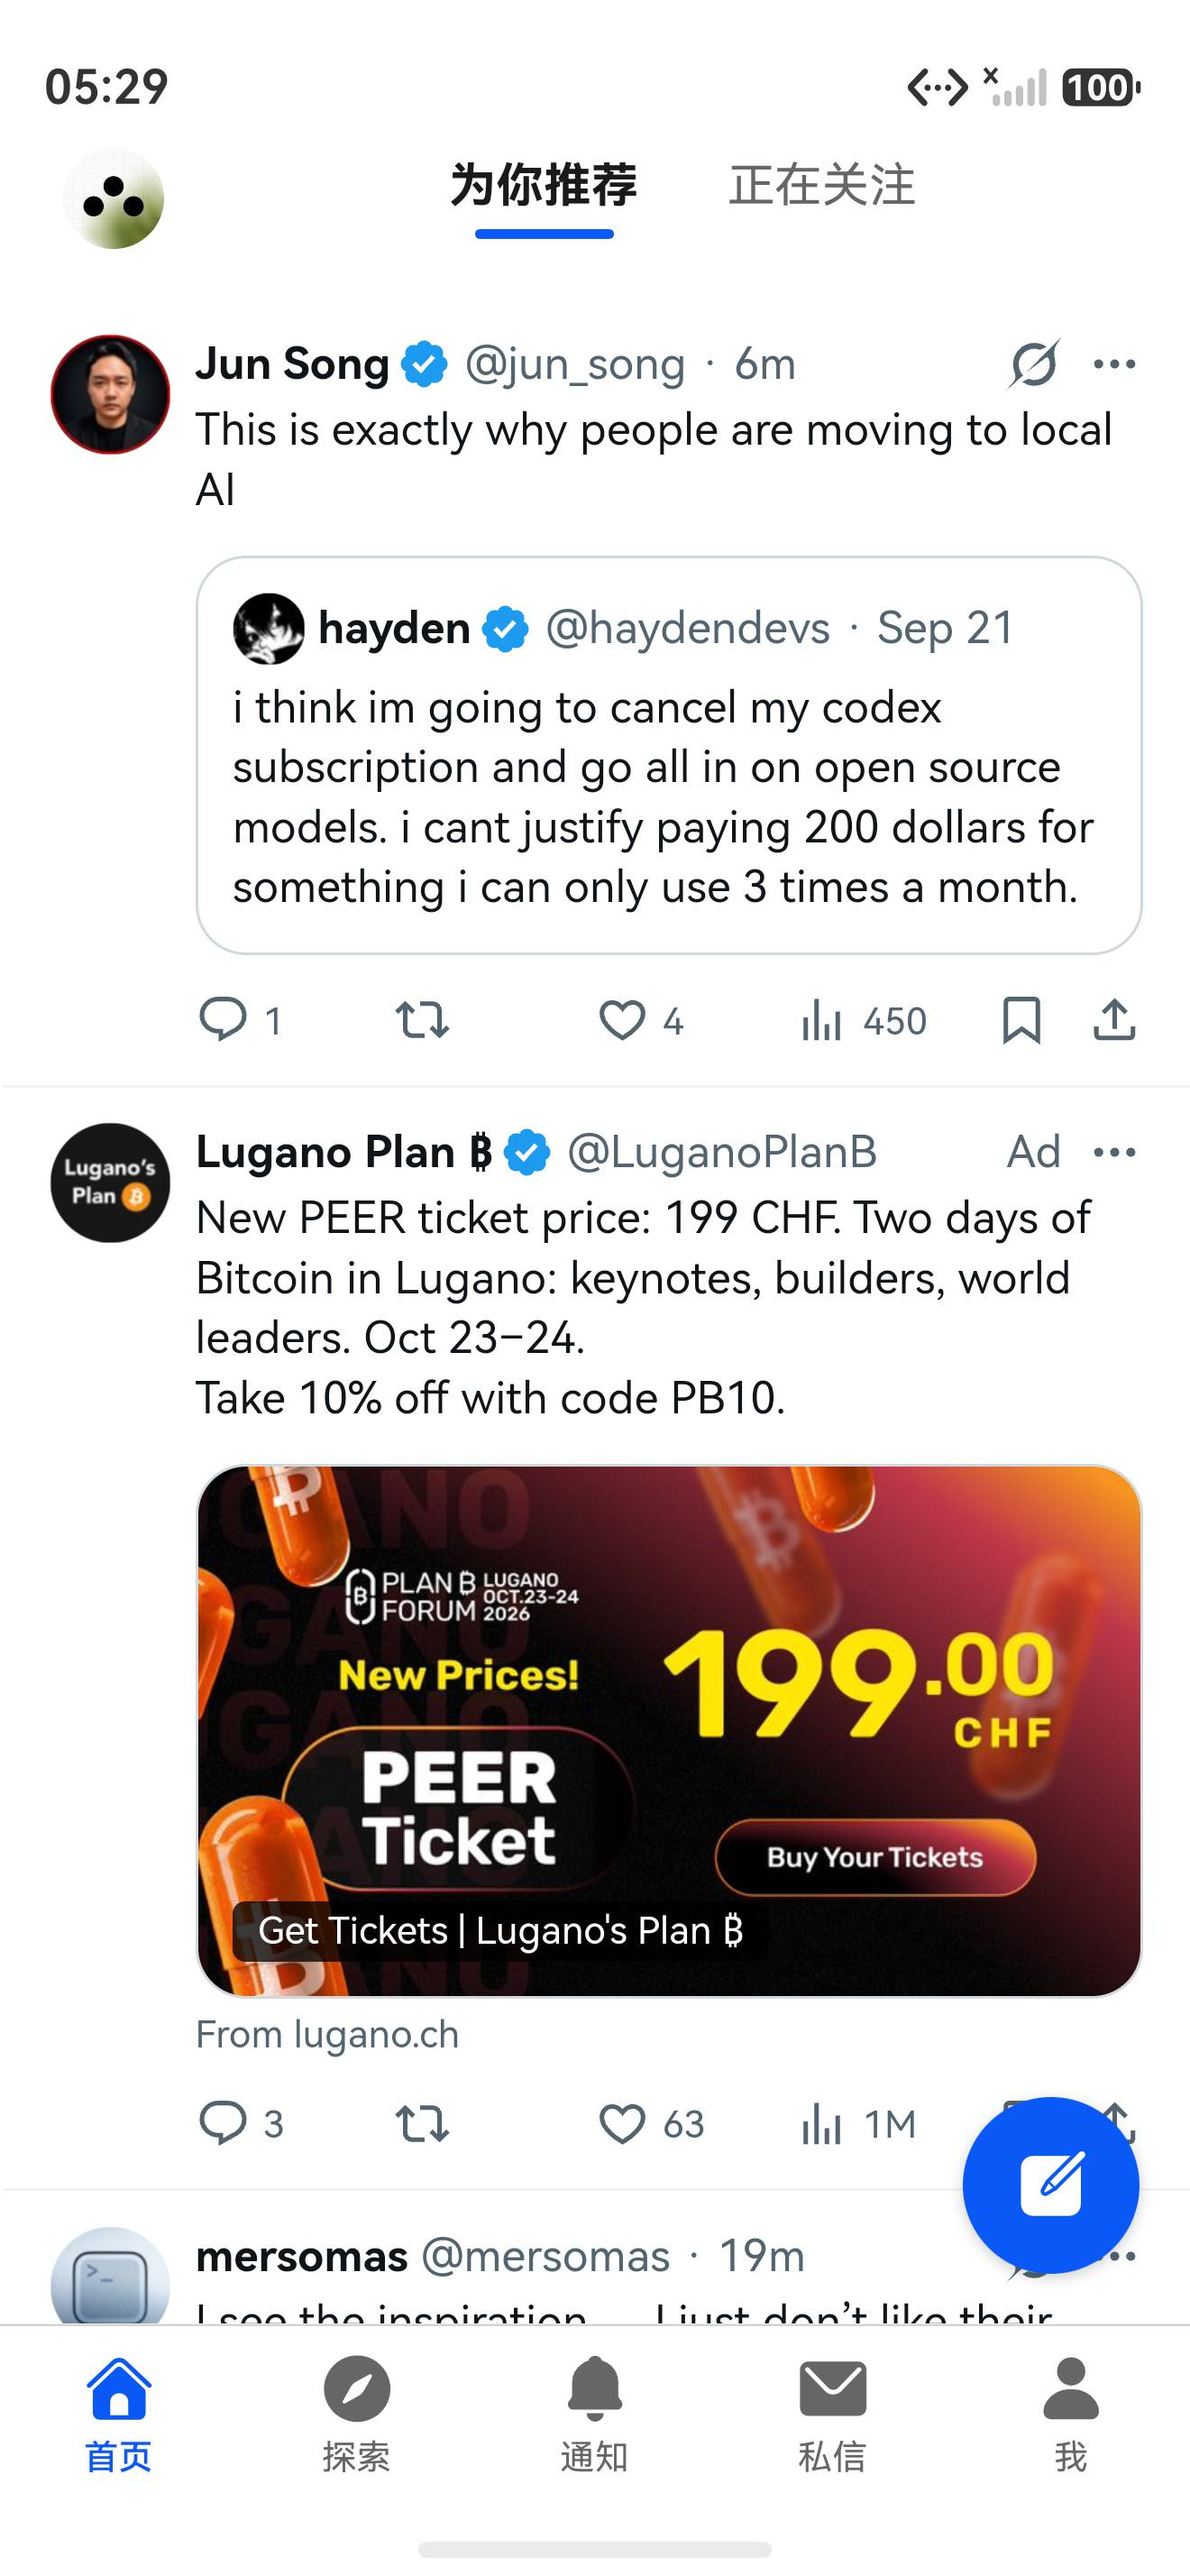
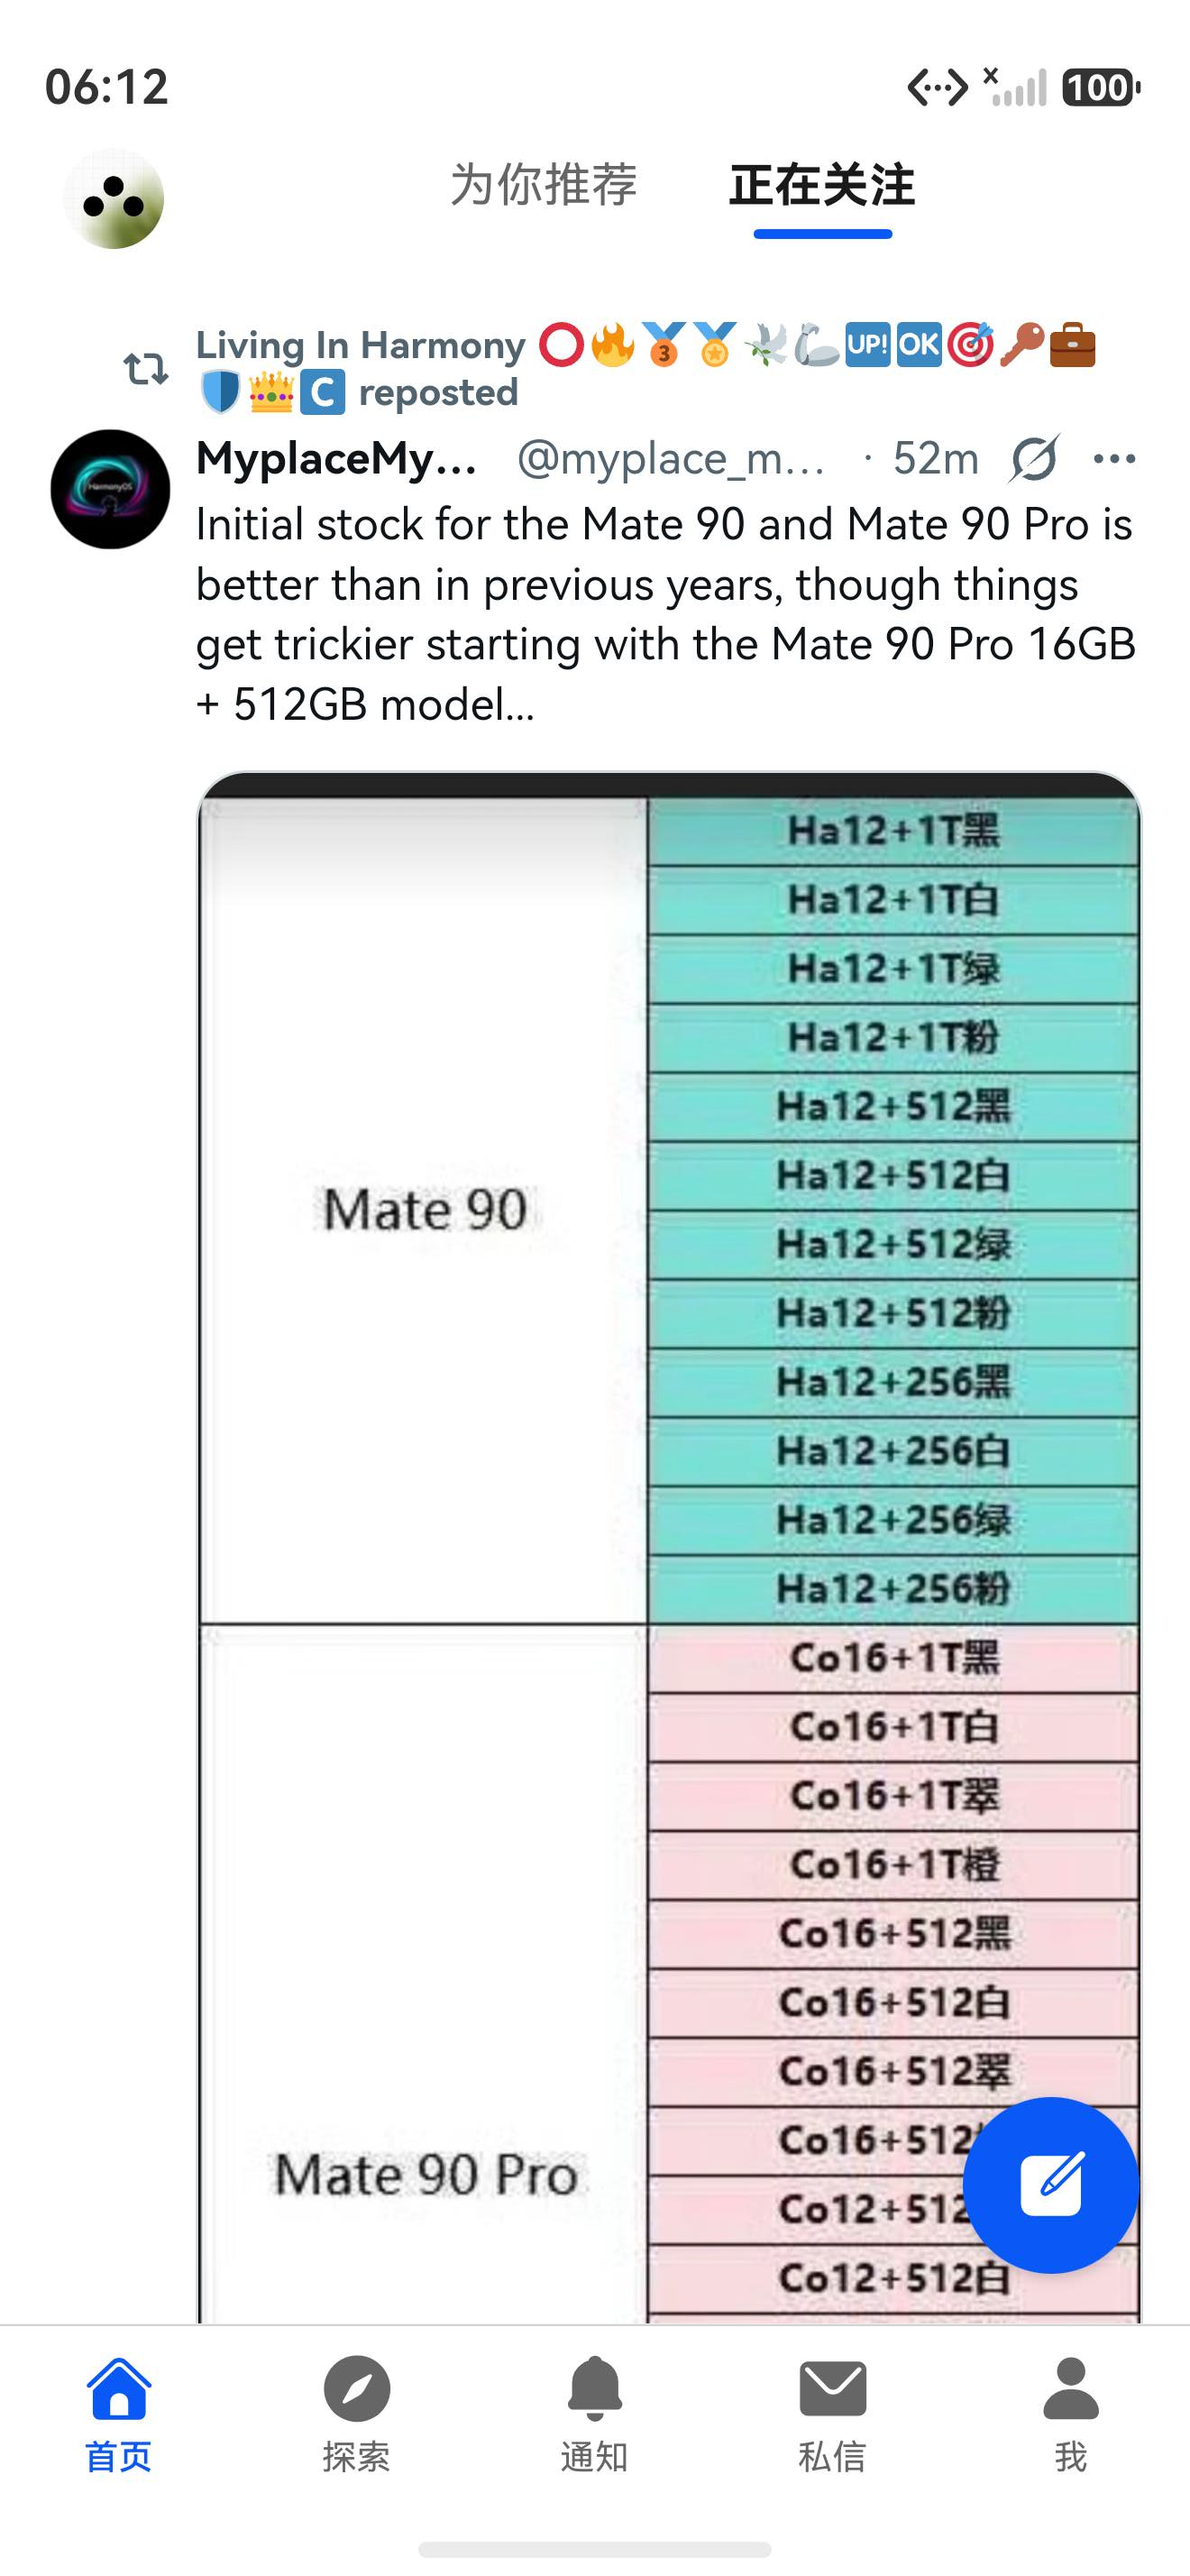
docs(readme): full screenshot gallery for phone and foldable
- README: phone gallery (12 frames incl. post detail + compose sheet) and
  foldable gallery (rail, account menu, timeline switch, explore, compose,
  signed-HAP install), cross-linked to the audit doc
- audit: note the two dropped captures (duplicate frame, black frame) and
  record the foldable signed-install evidence
- screenshots: refresh Home/Following, add post detail + compose sheet

diff --git a/README.md b/README.md
@@ -1,7 +1,9 @@
 # OpenTwit-Web
 Full Twitter/X web port for HarmonyOS — the real x.com web app inside a native HarmonyOS shell.
 
-Previous native-API mock (8 starter posts via fxtwitter/syndication) was **replaced**: this version loads `https://x.com` in the system `Web` component, so timeline, login, post, explore, notifications, DMs, profile all work with full web parity. Native feel comes from HarmonyOS chrome around it: Navigation title + progress, back/forward/reload, bottom `Tabs` with HarmonyOS Symbols, light/dark adaptation, offline retry, geolocation grant.
+[![Release](https://img.shields.io/github/v/release/Abhi-Flex1/OpenTwit-Web?display_name=tag)](https://github.com/Abhi-Flex1/OpenTwit-Web/releases/latest)
+
+Previous native-API mock (8 starter posts via fxtwitter/syndication) was **replaced**: this version loads `https://x.com` in the system `Web` component, so timeline, login, post, explore, notifications, DMs and profile all come from the real web app. Everything that is *chrome* is native HarmonyOS instead: per-tab headers with a native Home timeline switcher, Explore's search field, the account menu, compose FAB + sheet, a bottom bar that becomes a side rail, system colours (real light/dark), HarmonyOS Sans and Symbols throughout, offline retry, and a geolocation consent dialog.
 
 ## Features
 - **Full web Twitter**: `https://x.com/home`, `/explore`, `/notifications`, `/messages`, `/settings/profile` — login via web cookies, no API key
@@ -37,11 +39,39 @@ hdc install -r dist/OpenTwit-Web-1.0.0-signed.hap # uninstall any unsigned build
 
 ## Screenshots
 
-`screenshots/final/mobile/` — signed-in phone sweep (Home For you / Following,
-account menu, Explore + results, Notifications, notification settings, Messages,
-Profile, Settings). `screenshots/final/foldable/` — the same shell on the 955 vp
-foldable AVD: side rail, native header, account menu, compose sheet, plus the
-signed HAP running after install (that AVD is signed out; see the audit doc §8.5).
+All captures below are real device frames (`uitest screenCap` / `snapshot_display`),
+not mockups. Full-resolution files live in
+[`screenshots/final/`](screenshots/final).
+
+### Phone — 1320 x 2856, signed in (377 vp, bottom bar)
+
+| | |
+| --- | --- |
+| <img src="screenshots/final/mobile/01-home-for-you.jpeg" width="320" alt="Home, For you"> **Home — For you.** Account avatar, native timeline switcher, filled tab bar with Home in system blue. | <img src="screenshots/final/mobile/03-home-following.jpeg" width="320" alt="Home, Following"> **Home — Following.** The same switcher driving x.com's real timeline tab; the underline follows `aria-selected`. |
+| <img src="screenshots/final/mobile/02-account-menu.jpeg" width="320" alt="Account menu"> **Account menu.** Opened from the avatar: Profile, Bookmarks, Lists, Settings and privacy — HarmonyOS Symbols, native menu. | <img src="screenshots/final/mobile/04-explore.jpeg" width="320" alt="Explore"> **Explore.** Search lives *in* the header, not under a duplicated title. |
+| <img src="screenshots/final/mobile/05-explore-results.jpeg" width="320" alt="Search results"> **Search results.** Back arrow plus the live query and a clear button, exactly where the stock app puts them. | <img src="screenshots/final/mobile/06-notifications.jpeg" width="320" alt="Notifications"> **Notifications.** Centred title, single gear, and the native unread badge on the tab bar. |
+| <img src="screenshots/final/mobile/07-notification-settings.jpeg" width="320" alt="Notification settings"> **Notification settings.** A pushed page: back arrow, page name, no gear. | <img src="screenshots/final/mobile/08-messages.jpeg" width="320" alt="Messages"> **Messages.** Title + gear only; the pencil that used to sit here is gone (the FAB is the compose entry point). |
+| <img src="screenshots/final/mobile/09-profile.jpeg" width="320" alt="Profile"> **Profile.** Display name over `@handle`, settings gear, no back arrow on the tab root. | <img src="screenshots/final/mobile/10-settings.jpeg" width="320" alt="Settings"> **Settings.** Reached from that gear. |
+| <img src="screenshots/final/mobile/11-post-detail.jpeg" width="320" alt="Post detail"> **Post detail.** Native back plus a page name when a timeline item is opened. | <img src="screenshots/final/mobile/12-compose-sheet.jpeg" width="320" alt="Compose sheet"> **Compose sheet.** Cancel / New post / Post, counter, and the web composer hidden underneath. |
+
+### Foldable — 2388 x 2480 unfolded (955 vp, side rail)
+
+Same component tree, flipped by the 840 vp breakpoint: the bottom bar becomes a
+rail and the web content keeps the full width. This AVD is **signed out** (its
+session is device-local, see [audit doc §8.5](docs/HARMONY_GUIDELINE_AUDIT.md)),
+so the pages it can load are x.com's own login walls — the point of these frames
+is the shell.
+
+| | |
+| --- | --- |
+| <img src="screenshots/final/foldable/01-home-rail.jpeg" width="460" alt="Foldable home"> **Rail + native header.** Filled symbols, Home active in system blue, avatar and switcher centred in the header. | <img src="screenshots/final/foldable/02-account-menu.jpeg" width="460" alt="Foldable account menu"> **Account menu** on the wide layout (signed out: Create account / Settings and privacy). |
+| <img src="screenshots/final/foldable/03-home-following.jpeg" width="460" alt="Foldable Following"> **Timeline switch** works in the rail layout too. | <img src="screenshots/final/foldable/04-explore.jpeg" width="460" alt="Foldable Explore"> **Explore** on the wide layout — the header search spans the content column. |
+| <img src="screenshots/final/foldable/09-compose-sheet.jpeg" width="460" alt="Foldable compose sheet"> **Compose sheet** — native sheet with the system keyboard. | <img src="screenshots/final/foldable/10-signed-install.jpeg" width="460" alt="Signed HAP running"> **The signed HAP, installed and running** (see below). |
+
+Signed-out login walls on the same AVD, kept for completeness:
+[Notifications](screenshots/final/foldable/06-notifications.jpeg),
+[Messages](screenshots/final/foldable/07-messages.jpeg),
+[Profile](screenshots/final/foldable/08-profile.jpeg).
 
 ## Project layout (remade)
 - `AppScope/app.json5` — bundle `com.opentwit.web`
@@ -51,6 +81,9 @@ signed HAP running after install (that AVD is signed out; see the audit doc §8.
 - `entry/src/main/ets/common/Theme.ets` — font + theme tokens
 - `entry/src/main/resources/{base,dark,zh_CN}/element/*.json` — strings + start-window colour per qualifier; UI colours come from `sys.color.*`
 - `AppScope/resources/base/media/{layered_image.json,background.png,foreground.png,app_icon.png}` — layered app icon, generated by `scripts/make-icons.py`
+- `scripts/sign-hap.sh` — profile + HAP signing with the SDK's OpenHarmony test material, then verification (output lands in `dist/`, which is git-ignored; releases carry the artifact)
+- `screenshots/final/{mobile,foldable}/` — the device evidence shown above, captured with `hdc ... uitest screenCap`
+- `docs/HARMONY_GUIDELINE_AUDIT.md` — the audit log: findings, fixes, native-vs-web ownership table, device verification and the signing boundary
 - Old `services/` (`WebTimeline`, `UserApi`, …), `viewmodels/`, `components/TweetCard|Composer|LiveTweetList`, `pages/Home|Explore|Notify|Messages|Profile|Login|Detail|UserProfile`, `common/TokenStore|WebFallback|HarmonyCard` removed — dead native-mock stack
 
 ## Prerequisites
@@ -80,7 +113,11 @@ hvigorw assembleApp
 #   entry/build/default/outputs/default/entry-default-unsigned.hap
 #   build/outputs/default/OpenTwit-Web-default-unsigned.app
 ```
-Debug builds are unsigned on purpose (`signingConfigs: []`). For signed release, provision via DevEco Studio (File > Project Structure > Signing Configs); never commit `.p12`/`.cer`/profiles.
+Hvigorw output is unsigned on purpose (`signingConfigs: []`). For a signed
+HAP use `scripts/sign-hap.sh` (see [Signed build](#signed-build)); for an
+AppGallery release, provision with your own AGC material via DevEco Studio
+(File > Project Structure > Signing Configs) instead. Never commit
+`.p12`/`.cer`/profiles — `.gitignore` already blocks them.
 
 ## Emulator (phone, HarmonyOS 6.1.1 API 24)
 Image download via `Emulator -install` is geo-gated to the Chinese mainland since DevEco 6.1.0 Beta1. No proxy needed — locale/timezone exports are enough (the `export ...` trick from `Abhi-Flex1/OpenTwit@e87a9ee` README):
@@ -111,8 +148,12 @@ Verified 2026-09-21 on both AVDs (phone 377 vp + foldable 955 vp): install,
 launch, tab switching and tab sync, system Back (web history → Home tab →
 leave app), offline retry, light/dark theme, launcher icon, `zh_CN`
 localisation, bottom bar on phone and navigation rail on the wide device.
-Method, per-finding fixes and the screenshot names are in
-[docs/HARMONY_GUIDELINE_AUDIT.md](docs/HARMONY_GUIDELINE_AUDIT.md).
+Verified again 2026-09-22 against a live signed-in account: every tab and
+pushed page (see the phone gallery above), the native timeline switcher, the
+account menu, the compose sheet, and
+the signed HAP installing and launching on the foldable AVD. Method, per-finding
+fixes and what is native vs. web-owned are in
+[docs/HARMONY_GUIDELINE_AUDIT.md](docs/HARMONY_GUIDELINE_AUDIT.md) §8.
 
 ### App icons
 `scripts/make-icons.py` regenerates the layered icon set

diff --git a/docs/HARMONY_GUIDELINE_AUDIT.md b/docs/HARMONY_GUIDELINE_AUDIT.md
@@ -384,11 +384,12 @@ session, so the screenshots in this section are of a live account.
    (`screenshots/final/mobile/01-home-for-you.jpeg`,
    `03-home-following.jpeg`).
 3. **Explore search moved into the header** instead of sitting under a title
-   (`04-explore.jpeg`, `05-explore-results.jpeg`), which also removed the
-   duplicated "Explore" title + field stack.
+   (`screenshots/final/mobile/04-explore.jpeg`,
+   `05-explore-results.jpeg`), which also removed the duplicated "Explore" title
+   + field stack.
 4. **Profile header follows the stock app**: display name over `@handle`, with
    the settings gear, and no back arrow on the Profile root
-   (`09-profile.jpeg`, `10-settings.jpeg`).
+   (`screenshots/final/mobile/09-profile.jpeg`, `10-settings.jpeg`).
 5. **`databaseAccess(true)`** on the `Web` component: ArkWeb gates its database
    APIs behind this flag and defaults them off, which a full web app should not
    rely on.
@@ -437,12 +438,16 @@ The "no conversations" report was reproduced and traced:
 Phone AVD (1320x2856, signed in as the account owner):
 `screenshots/final/mobile/` — home (For you), account menu, home (Following),
 explore, explore results, notifications, notification settings, messages,
-profile, settings.
+profile, settings, post detail, compose sheet. All twelve are embedded in the
+README's screenshot gallery.
 
 Foldable AVD (2388x2480, 955 vp, **signed out**): `screenshots/final/foldable/`
 — rail + native header, account menu (Create account / Settings and privacy),
 Following switch, explore, compose sheet, plus `10-signed-install.jpeg` which is
-the **signed** HAP running after install.
+the **signed** HAP running after install. The login-wall captures
+(`06-notifications`, `07-messages`, `08-profile`) are linked from the README for
+completeness; two early captures (`00-state`, `05-explore-results`) were dropped
+because they were duplicates of another frame and a black frame respectively.
 
 The foldable's own session could not be re-established: the web cookie jar lives
 outside the app sandbox, `hdc file send` and `shell cp` into the sandbox are
